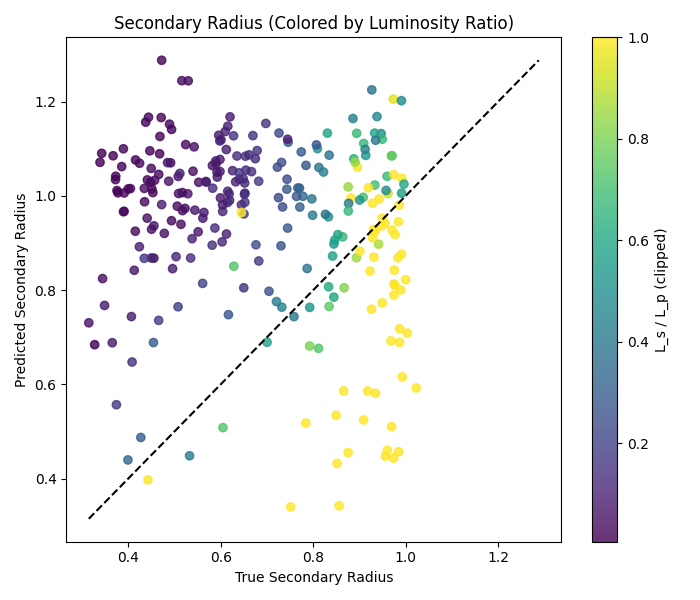
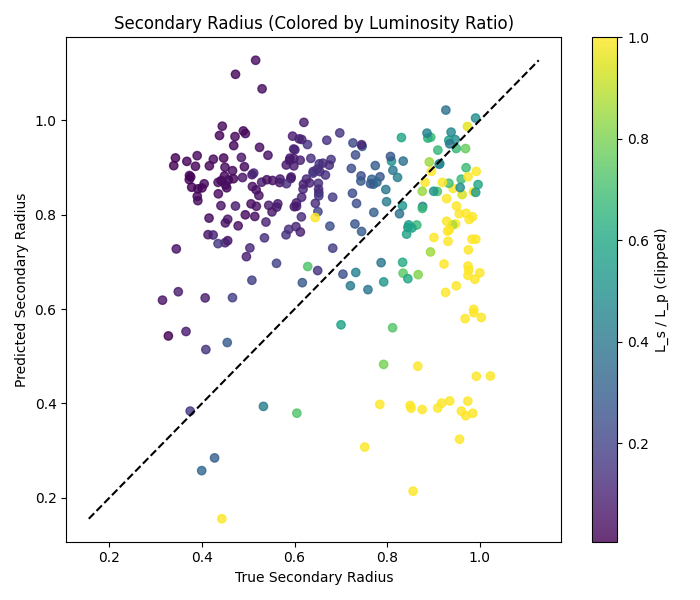
snr 10 - check filtered results folder

diff --git a/ANN/bANN.py b/ANN/bANN.py
@@ -1,7 +1,3 @@
-# ==========================
-# bANN.py
-# ==========================
-
 import os
 import numpy as np
 import pandas as pd
@@ -24,91 +20,56 @@ from bANN_utils import (
     evaluate_koi_predictions,
 )
 
-# ==========================
-# CONSTANTS
-# ==========================
-
 EXPECTED_FEATURES = 1947
 
-# ==========================
-# PATHS
-# ==========================
-
 base_dir = "/data/niaycarr/ANN-for-Stellar-Label-Determination/ANN"
-
 output_dir = os.path.join(base_dir, "filtered results")
-
 os.makedirs(output_dir, exist_ok=True)
 
-csv_path = "clean_stellar_dataset_Tdiff1000.csv"
+# OMG we were using Tdiff1000 dataset instead of the original dataset?
+csv_path = "clean_stellar_dataset.csv"
 
 model_path = os.path.join(base_dir, "stellar_ann_model.pt")
 
 x_scaler_path = os.path.join(base_dir, "x_scaler.save")
-
 y_scaler_path = os.path.join(base_dir, "y_scaler.save")
 
-# ==========================
-# TRAIN
-# ==========================
 
 def train_and_evaluate():
 
-    # -----------------------------------
     # LOAD DATA
-    # -----------------------------------
 
     print("\nLoading dataset...")
-
-    df = pd.read_csv(csv_path)
-
+    # df = pd.read_csv(csv_path)
+    df = pd.read_parquet(
+        "clean_stellar_dataset_Tdiff1000.parquet"
+    )
     flux_cols = [c for c in df.columns if c.startswith("flux_")]
 
-    # -----------------------------------
-    # CONVERT RADII TO SOLAR UNITS
-    # -----------------------------------
-
     R_SUN = 6.957e10
-
     df["p_radius"] /= R_SUN
     df["s_radius"] /= R_SUN
 
-    # -----------------------------------
     # INPUTS / LABELS
-    # -----------------------------------
 
     X_full = df[flux_cols].values
-
     y = df[label_names].values
 
-    # -----------------------------------
     # LOAD WAVELENGTH GRID
-    # -----------------------------------
 
     wavelength = np.loadtxt("Koi1422_HET.txt")[:, 0]
-
-    # -----------------------------------
-    # CONSISTENT MASKING + NORMALIZATION
-    # -----------------------------------
-
     X, mask = preprocess_spectrum_matrix(
         X_full,
         wavelength
     )
 
-    # -----------------------------------
-    # ADDITIVE NOISE
-    # -----------------------------------
-
     X = apply_additive_noise(
         X,
-        snr=30
+        snr=10
     )
 
     print(f"\nMasked feature count: {X.shape[1]}")
-
     if X.shape[1] != EXPECTED_FEATURES:
-
         raise ValueError(
             f"[FATAL] Expected {EXPECTED_FEATURES} features "
             f"but got {X.shape[1]}"
@@ -140,10 +101,6 @@ def train_and_evaluate():
         (s_teff / p_teff) ** 4
     )
 
-    # -----------------------------------
-    # INVERSE WEIGHTING
-    # -----------------------------------
-
     # sample_weights = 1.0 / (lum_ratio + 0.05)
     sample_weights = 1.0 / np.sqrt(lum_ratio + 0.05)
 
@@ -165,21 +122,13 @@ def train_and_evaluate():
     print(f"max = {sample_weights.max():.3f}")
     print(f"mean = {sample_weights.mean():.3f}")
 
-    # -----------------------------------
-    # SCALE
-    # -----------------------------------
 
     x_scaler = StandardScaler()
-
     y_scaler = StandardScaler()
-
     X_scaled = x_scaler.fit_transform(X)
-
     y_scaled = y_scaler.fit_transform(y)
 
-    # -----------------------------------
     # SPLIT
-    # -----------------------------------
 
     (
         X_train,
@@ -211,9 +160,6 @@ def train_and_evaluate():
         random_state=42
     )
 
-    # -----------------------------------
-    # DATASETS
-    # -----------------------------------
 
     train_dataset = StellarDataset(
         X_train,
@@ -245,30 +191,19 @@ def train_and_evaluate():
 
     device = (
         "cuda"
+        # remove sometime later, volga is a cpu machine i cant use gpu if i wanted to wtv
         if torch.cuda.is_available()
         else "cpu"
     )
 
     print(f"\nUsing device: {device}")
 
-    # ===================================
-    # BIGGER ANN
-    # ===================================
-    #
-    # 1947 -> 512 -> 256 -> 128 -> 6
-    #
-    # NO DROPOUT
-    #
-    # ===================================
 
     model = StellarANN(
         n_input=X.shape[1],
         n_output=len(label_names)
     ).to(device)
 
-    # -----------------------------------
-    # OPTIMIZER
-    # -----------------------------------
 
     optimizer = torch.optim.Adam(
         model.parameters(),
@@ -276,57 +211,36 @@ def train_and_evaluate():
         weight_decay=1e-5
     )
 
-    # -----------------------------------
-    # LOSS
-    # -----------------------------------
-
     criterion = torch.nn.MSELoss(
         reduction="none"
     )
 
-    # -----------------------------------
     # EARLY STOPPING
-    # -----------------------------------
 
     best_val = float("inf")
-
     patience = 20
-
     counter = 0
-
     train_losses = []
-
     val_losses = []
 
-    # ===================================
     # TRAIN LOOP
-    # ===================================
 
     print("\nBeginning training...\n")
 
     for epoch in range(100):
 
-        # ------------------------------
         # TRAIN
-        # ------------------------------
 
         model.train()
-
         train_loss = 0
 
         for xb, yb, wb in train_loader:
-
             xb = xb.to(device)
-
             yb = yb.to(device)
-
             wb = wb.to(device)
-
             pred = model(xb)
 
-            # --------------------------
             # WEIGHTED MSE
-            # --------------------------
 
             loss_per_sample = criterion(
                 pred,
@@ -338,35 +252,23 @@ def train_and_evaluate():
             ).mean()
 
             optimizer.zero_grad()
-
             weighted_loss.backward()
-
             optimizer.step()
-
             train_loss += weighted_loss.item()
 
         train_loss /= len(train_loader)
-
         train_losses.append(train_loss)
 
-        # ------------------------------
         # VALIDATION
-        # ------------------------------
 
         model.eval()
-
         val_loss = 0
 
         with torch.no_grad():
-
             for xb, yb, wb in val_loader:
-
                 xb = xb.to(device)
-
                 yb = yb.to(device)
-
                 wb = wb.to(device)
-
                 pred = model(xb)
 
                 loss_per_sample = criterion(
@@ -381,7 +283,6 @@ def train_and_evaluate():
                 val_loss += weighted_loss.item()
 
         val_loss /= len(val_loader)
-
         val_losses.append(val_loss)
 
         print(
@@ -390,14 +291,10 @@ def train_and_evaluate():
             f"Val {val_loss:.5f}"
         )
 
-        # ------------------------------
         # SAVE BEST MODEL
-        # ------------------------------
 
         if val_loss < best_val:
-
             best_val = val_loss
-
             counter = 0
 
             torch.save(
@@ -416,18 +313,12 @@ def train_and_evaluate():
             )
 
         else:
-
             counter += 1
-
             if counter >= patience:
-
                 print("\nEarly stopping triggered.")
-
                 break
 
-    # ===================================
     # TEST EVALUATION
-    # ===================================
 
     print("\nLoading best model...")
 
